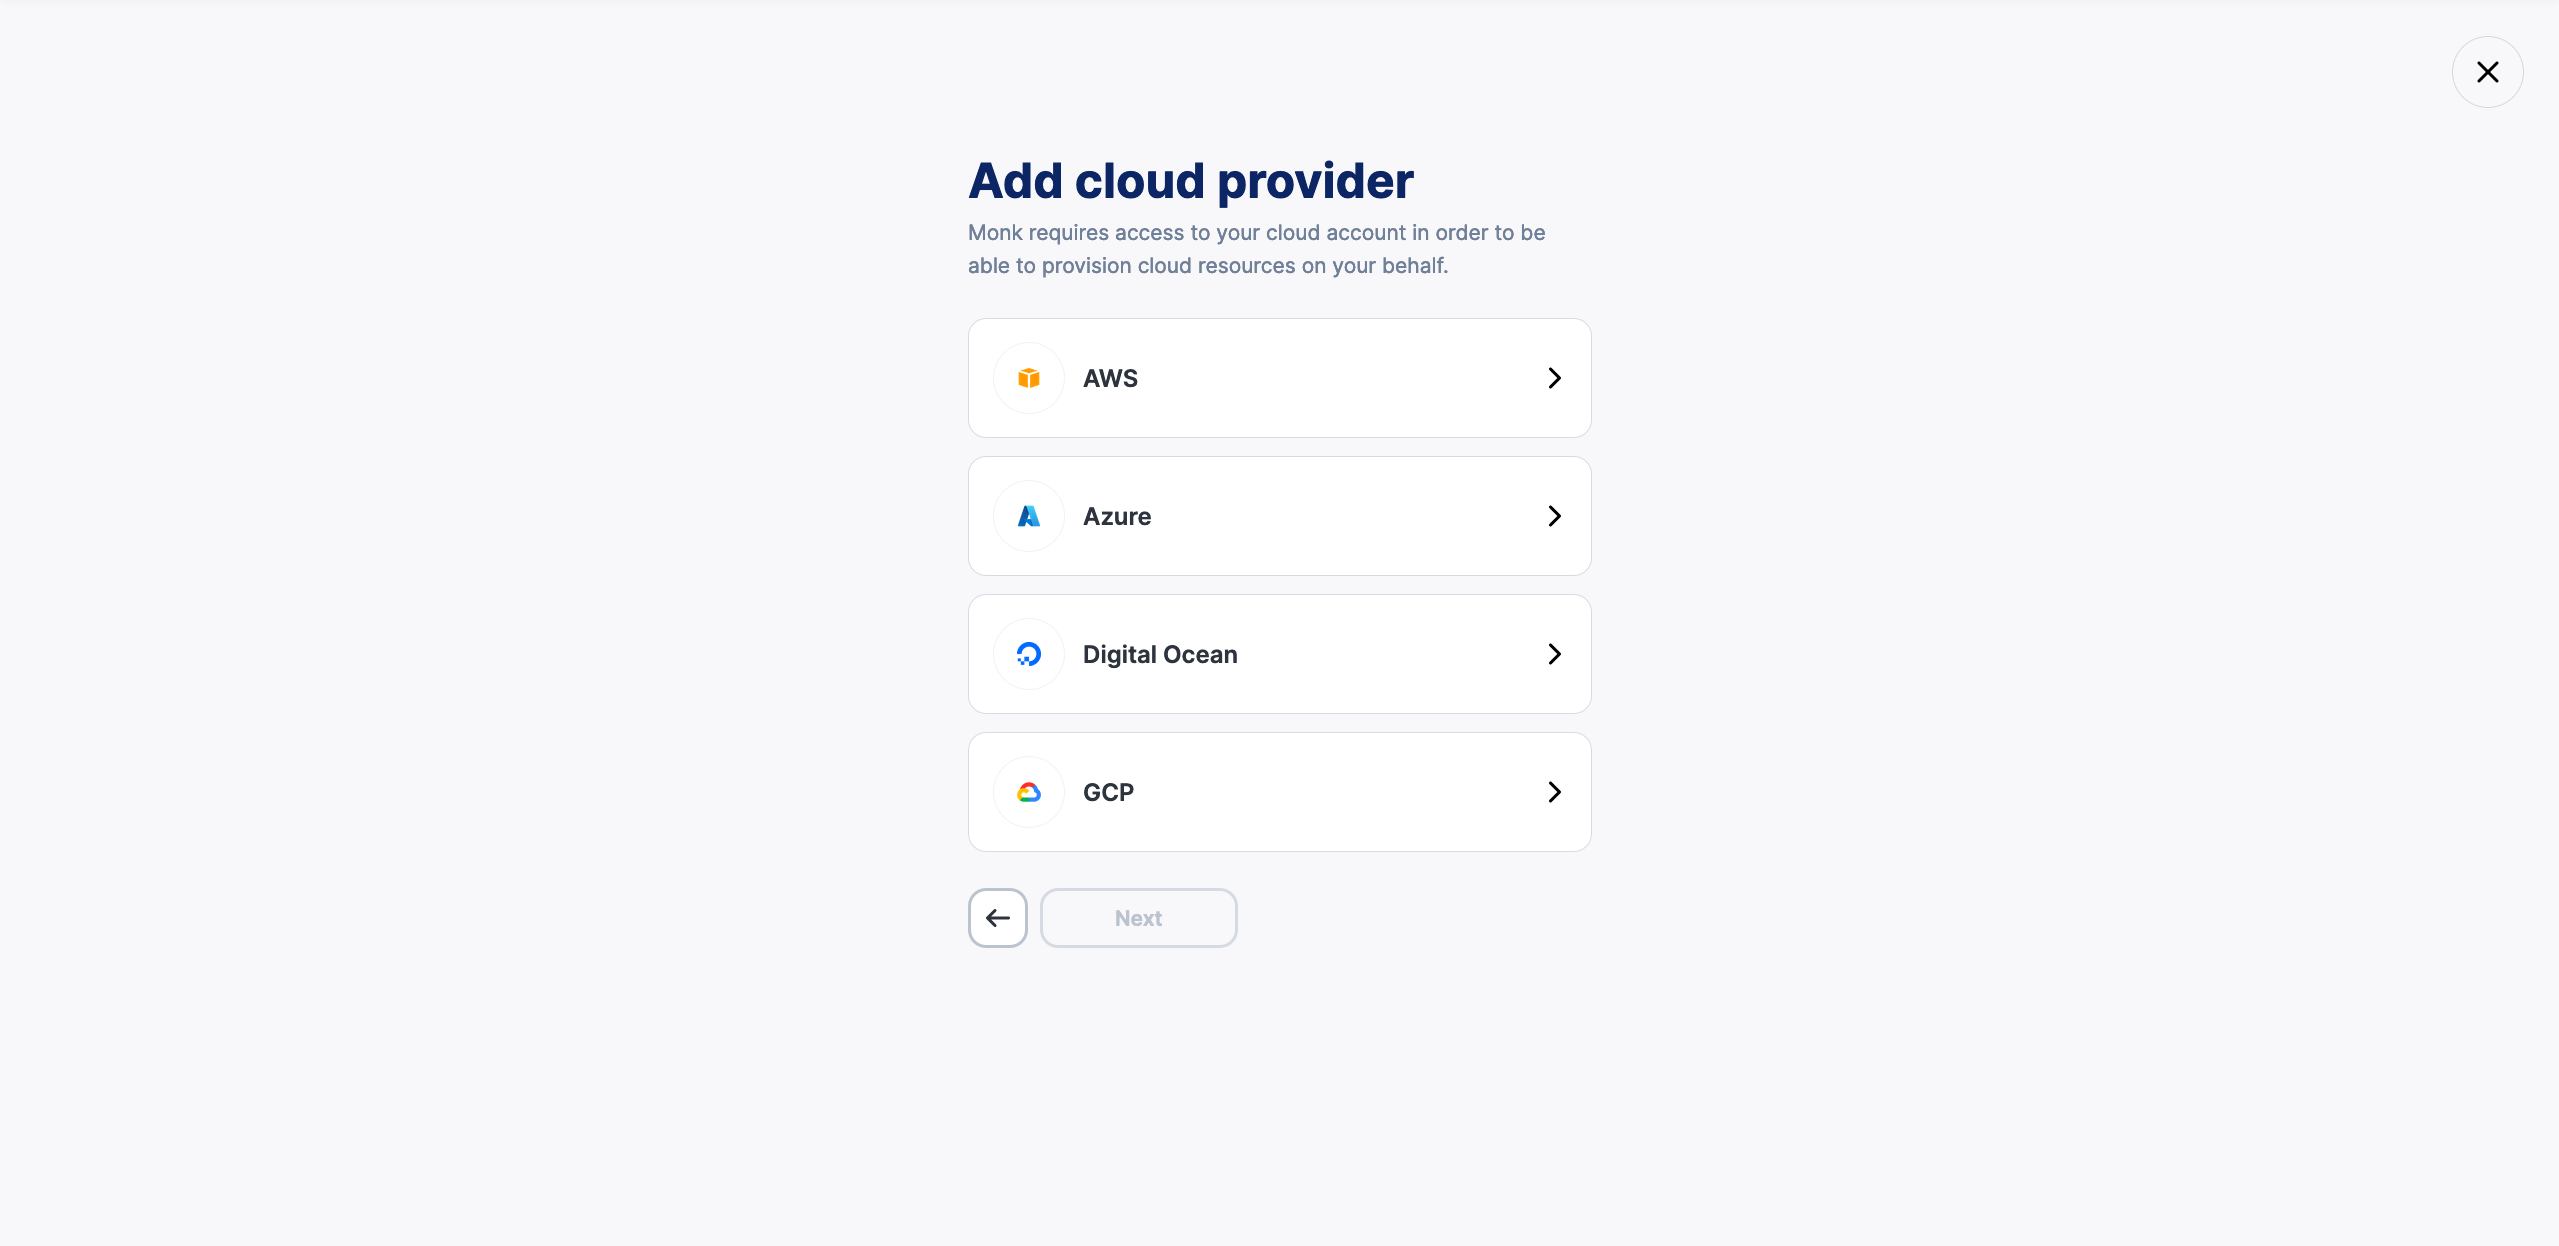
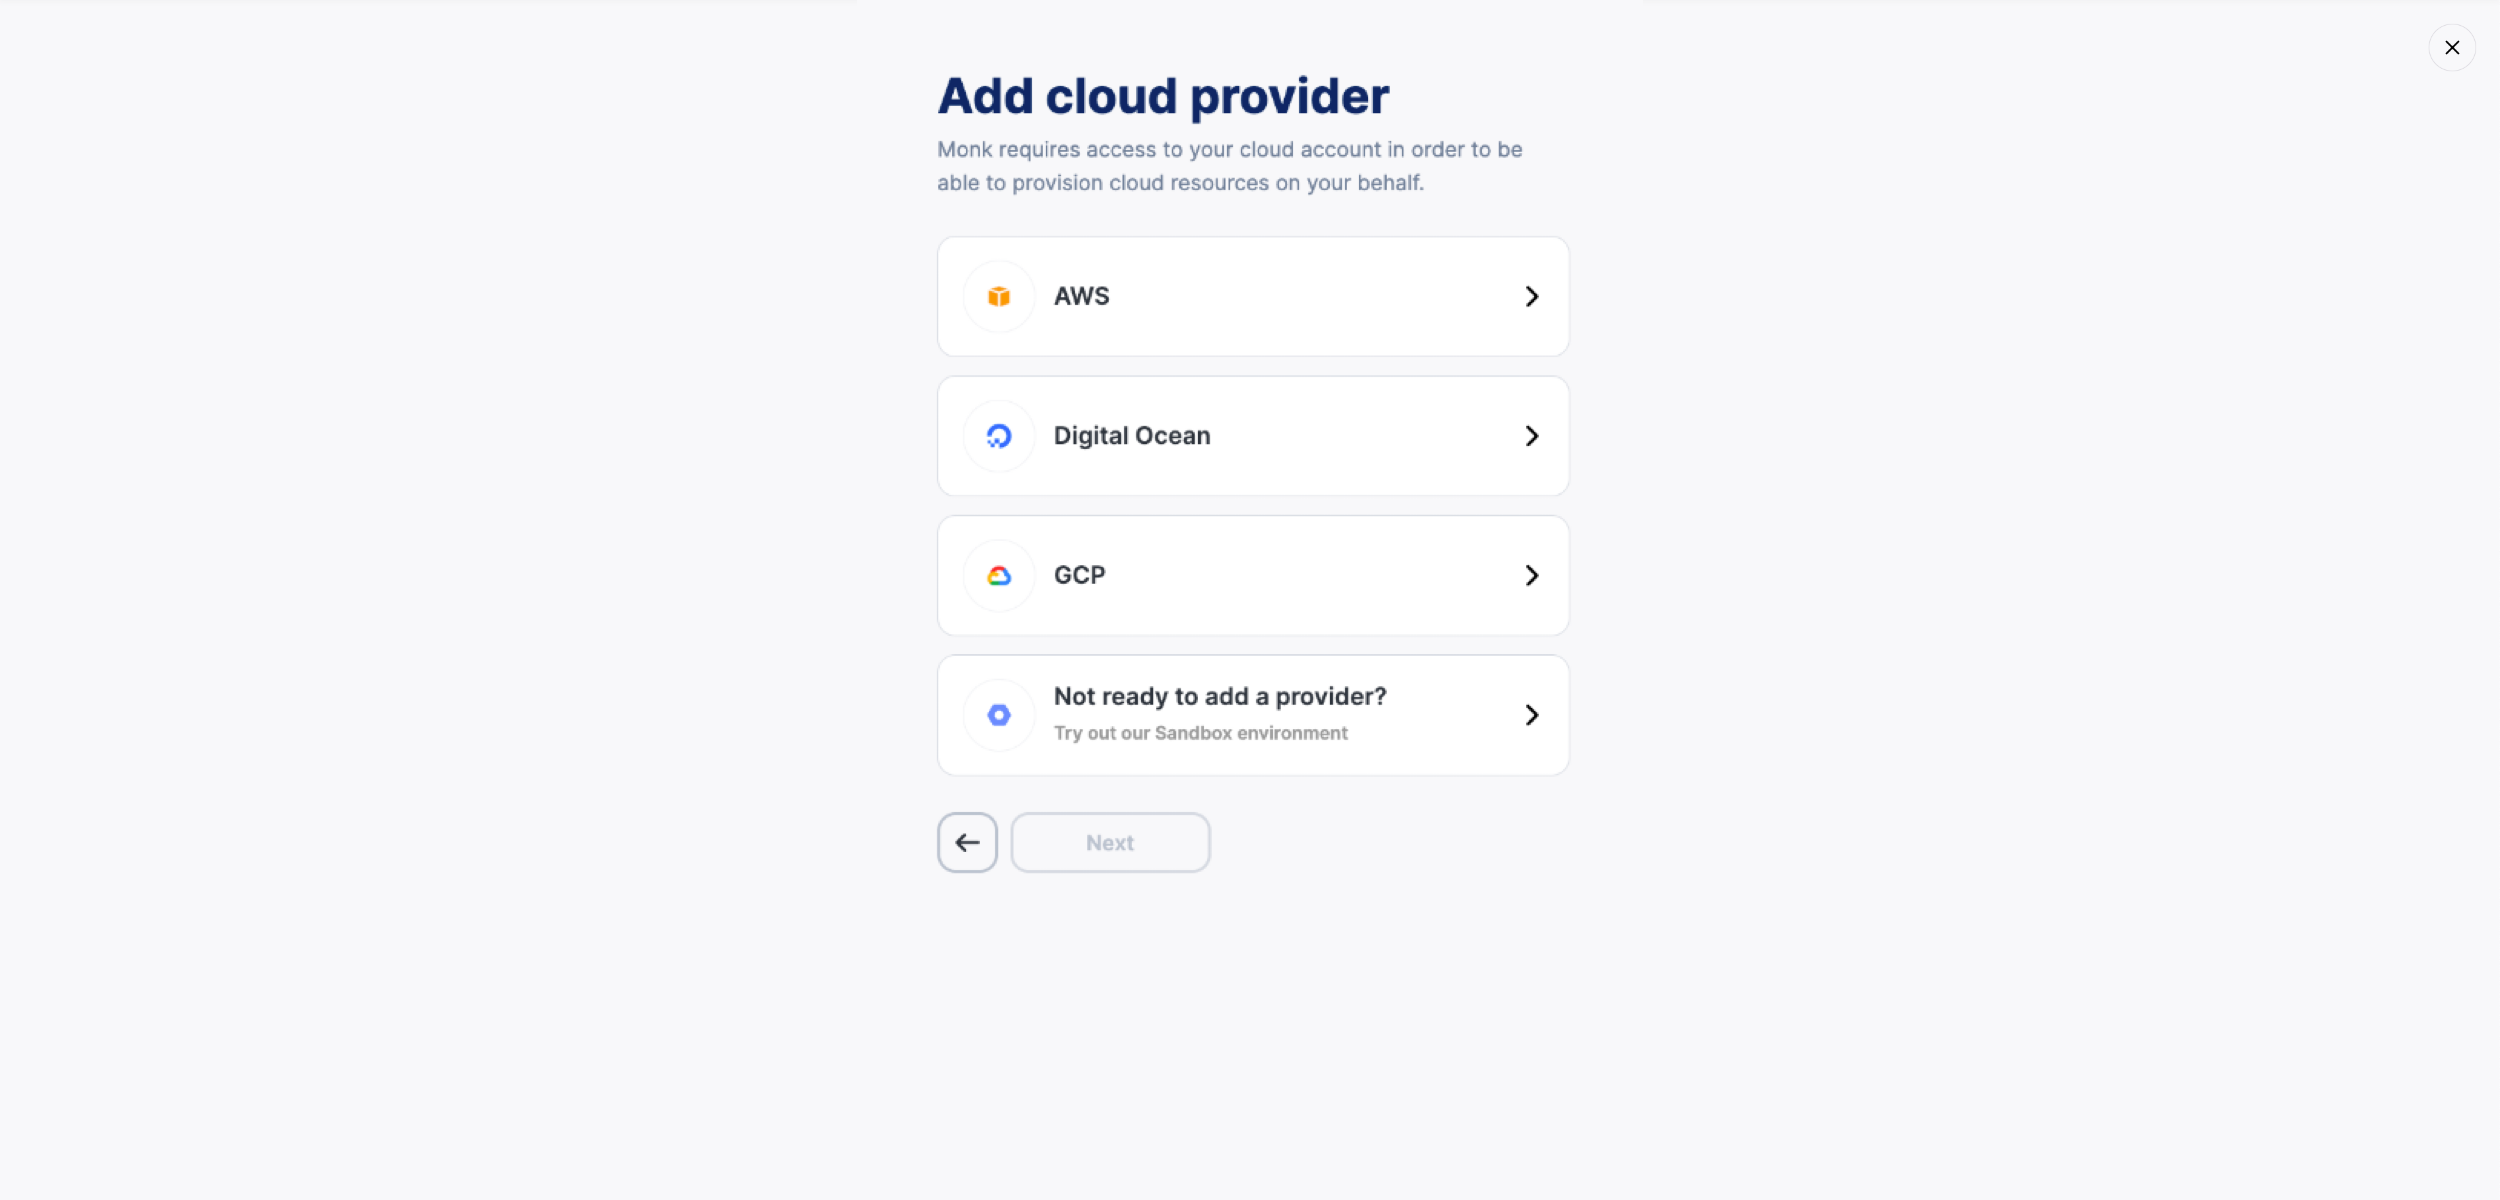
Wrote how to add / modify / delete creds

diff --git a/docs/gui/add-cloud-providers.md b/docs/gui/add-cloud-providers.md
@@ -2,6 +2,70 @@
 title: Adding your cloud providers
 ---
 
-<!-- FIXME need GUI access to complete this doc. Placeholder text is below. -->
+import Figure from "@site/src/components/figure";
 
-There are two places you can add your cloud providers: when setting up a new / your first project, and in your account.
+In [Setting Up Your Project](project-setup), you were prompted to add credentials
+to your first project. You can also add, and manage, your credentials in your
+Account Settings.
+
+## How to add a new token
+
+To reach your account settings, you can click on your avatar in the upper right
+of your screen and select **Account Settings**.
+
+<Figure src="/img/docs/gui/gui60.png" caption="Account navigation drop-down"/>
+
+You can also go directly to: [app.monk.io/settings/account](https://app.monk.io/settings/account).
+
+Your account settings page will look similar to the below.
+
+<Figure src="/img/docs/gui/gui61.png" caption="Account settings page" />
+
+In this example we haven't yet added a cloud provider. Let's add and modify a token for
+Digital Ocean. First, we click on **+ Add** in th Cloud Credentials section. The same
+credentials window appears:
+
+<Figure src="/img/docs/gui/gui9.png" caption="Add cloud provider selector" />
+
+Select your provider, in our case Digital Ocean. The next window prompts us to add a
+our new cloud credentials. Click **Add new cloud credentials**.
+
+<Figure src="/img/docs/gui/gui57.png" caption="Choose credentials menu" />
+
+Since Digital Ocean uses API tokens, you are given the ability to name and add your
+token. Once you are done, click **Next**.
+
+<Figure src="/img/docs/gui/gui62.png" caption="Add token value" />
+
+Once complete, you will be back on your Account Settings page with the new token
+visible.
+
+<Figure src="/img/docs/gui/gui63.png" caption="Account settings page with new token" />
+
+## How to modify and delete tokens
+
+You can rename your existing tokens at any time. To do so, click the meatball
+menu and then click the pencil.
+
+<Figure src="/img/docs/gui/gui64.png" caption="Token menu with pencil and bin" />
+
+Let's change the name of the token from `DigitalOcean Token` to `Digital Ocean Token`. In the
+prompt that appears, we can do this by just altering the name in the text area:
+
+<Figure src="/img/docs/gui/gui65.png" caption="Change name field" />
+
+And then click **Save**. Our token now has the updated name `Digital Ocean Token`:
+
+<Figure src="/img/docs/gui/gui66.png" caption="Token with new name displayed" />
+
+If the value of your token itself changes, rather than just updating the name, you will
+need to add the new credentials separately. If the pre-existing token(s) are now outdated
+you can delete them. To delete them, instead of clicking the pencil above you click the
+trash can:
+
+<Figure src="/img/docs/gui/gui64.png" caption="Token menu with pencil and bin" />
+
+When you click the trash can to delete, you will have a prompt to verify that you are
+looking to delete that specific token. To confirm, click **Remove**.
+
+<Figure src="/img/docs/gui/gui67.png" caption="Token delete prompt" />

diff --git a/docs/gui/project-setup.md b/docs/gui/project-setup.md
@@ -2,7 +2,6 @@
 title: Setting Up Your Project
 ---
 
-<!-- FIXME : removed Azure from this blurb, but it is in the UI screenshot below. We should have both places consistent -->
 :::note Prerequisites
 
 In order to build a project you will need to have your credentials ready for one or more of the following cloud providers:
@@ -19,7 +18,6 @@ To create a completely new project, you will need to name your project and then 
 
 Now you will need to optionally choose a cloud provider to deploy to. Alternatively, you can skip this step for now (using "Skip"), and add your desired cloud provider later. The only impact this will have is that you will need to have connected to a cloud provider before you can deploy. When you are ready to deploy, make sure you add as many cloud providers as you intend to deploy to as MonkOS supports infrastructure and workloads across cloud providers and regions. (Read more on our [Adding your cloud providers](add-cloud-providers) article, which is the next page in this section.)
 
-<!-- FIXME this screenshot will need to be updated as we now have the ability to skip this -->
 ![](/img/docs/gui/gui9.png)
 
 For the purpose of this tutorial we will pick just one cloud - GCP. You can choose different cloud - everything will work exactly the same regardless of your choice.  
